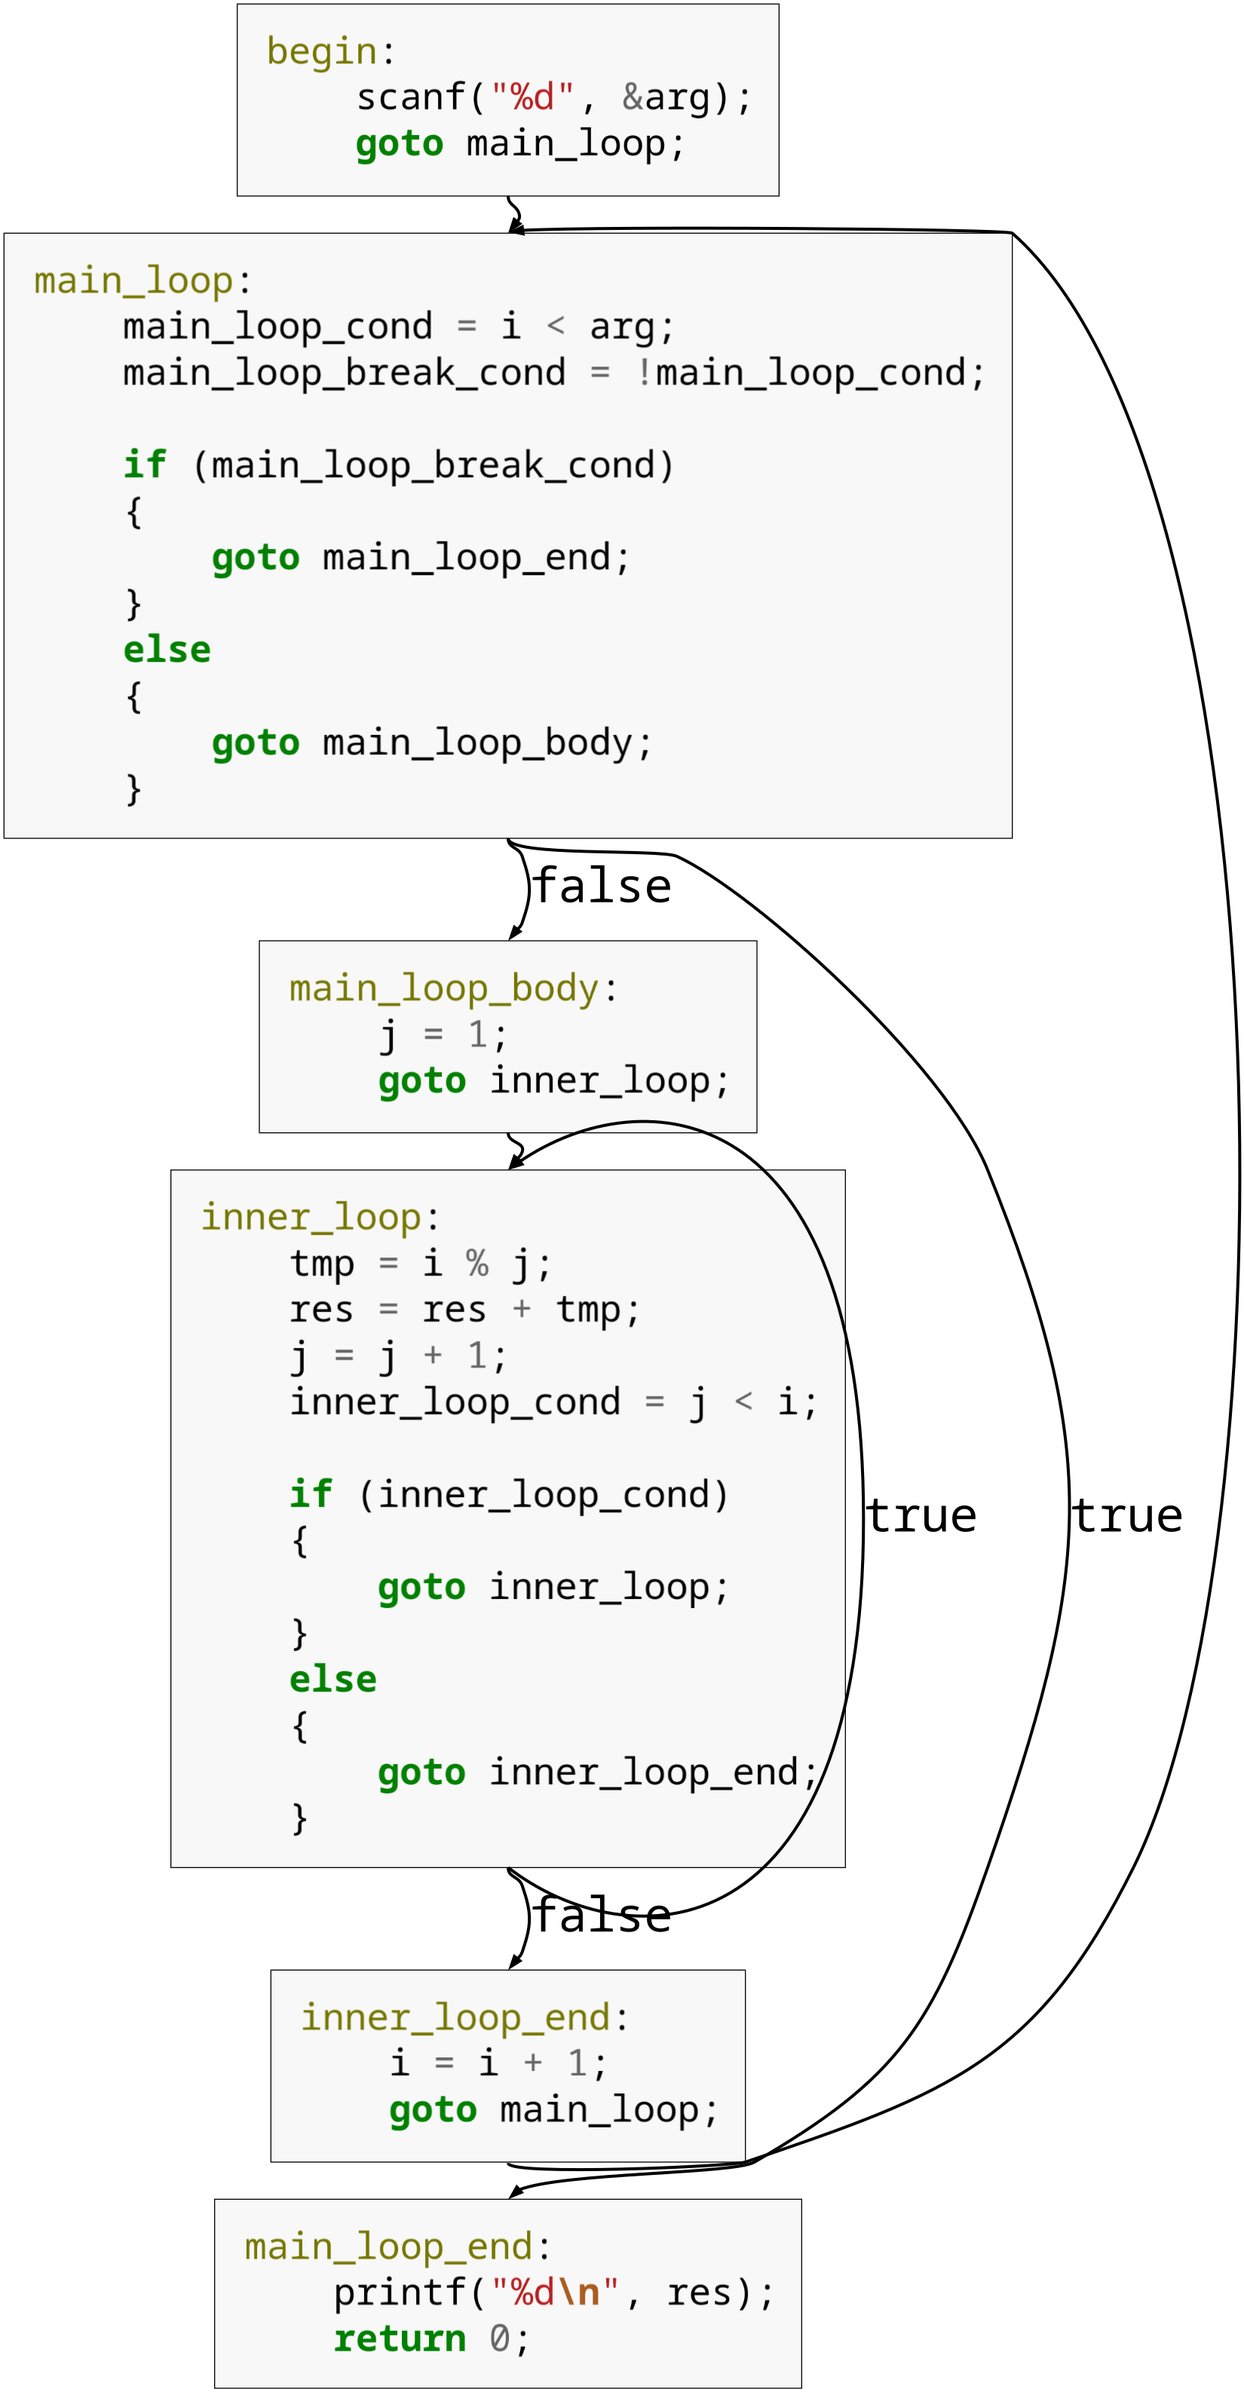
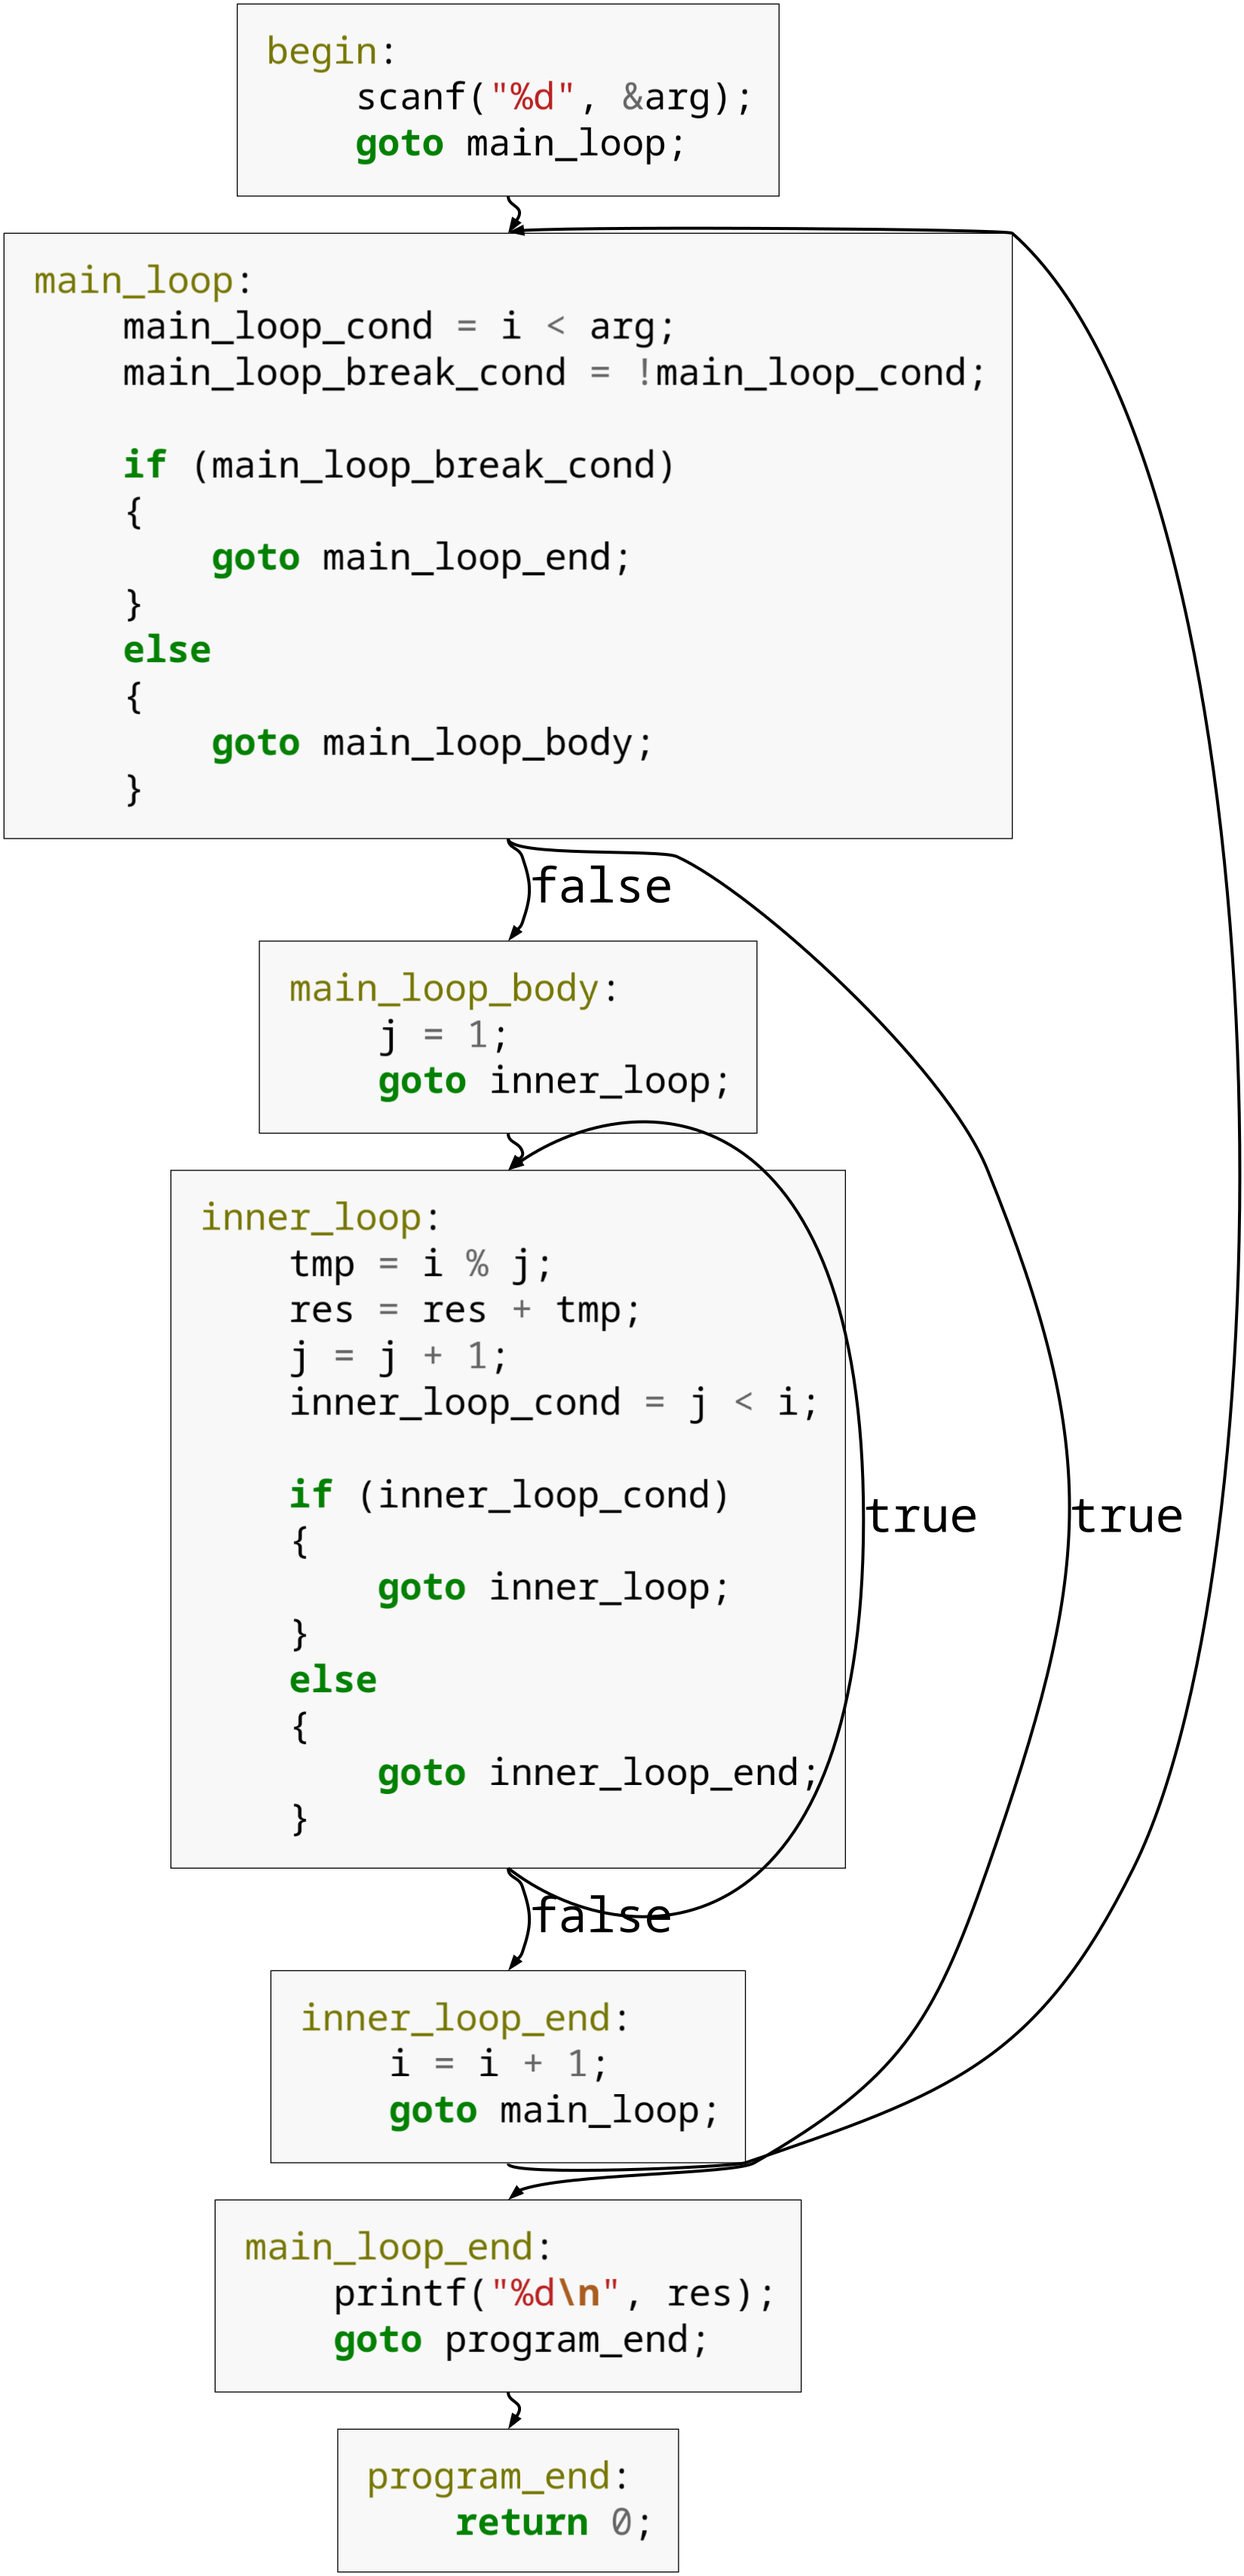
mistake fixed

diff --git a/file.html b/file.html
@@ -1,0 +1,174 @@
+<!DOCTYPE html PUBLIC "-//W3C//DTD HTML 4.01//EN"
+   "http://www.w3.org/TR/html4/strict.dtd">
+<!--
+generated by Pygments <https://pygments.org/>
+Copyright 2006-2024 by the Pygments team.
+Licensed under the BSD license, see LICENSE for details.
+-->
+<html>
+<head>
+  <title></title>
+  <meta http-equiv="content-type" content="text/html; charset=utf-8">
+  <style type="text/css">
+/*
+generated by Pygments <https://pygments.org/>
+Copyright 2006-2024 by the Pygments team.
+Licensed under the BSD license, see LICENSE for details.
+*/
+pre { line-height: 125%; }
+td.linenos .normal { color: inherit; background-color: transparent; padding-left: 5px; padding-right: 5px; }
+span.linenos { color: inherit; background-color: transparent; padding-left: 5px; padding-right: 5px; }
+td.linenos .special { color: #000000; background-color: #ffffc0; padding-left: 5px; padding-right: 5px; }
+span.linenos.special { color: #000000; background-color: #ffffc0; padding-left: 5px; padding-right: 5px; }
+body .hll { background-color: #ffffcc }
+body { background: #f8f8f8; }
+body .c { color: #3D7B7B; font-style: italic } /* Comment */
+body .err { border: 1px solid #FF0000 } /* Error */
+body .k { color: #008000; font-weight: bold } /* Keyword */
+body .o { color: #666666 } /* Operator */
+body .ch { color: #3D7B7B; font-style: italic } /* Comment.Hashbang */
+body .cm { color: #3D7B7B; font-style: italic } /* Comment.Multiline */
+body .cp { color: #9C6500 } /* Comment.Preproc */
+body .cpf { color: #3D7B7B; font-style: italic } /* Comment.PreprocFile */
+body .c1 { color: #3D7B7B; font-style: italic } /* Comment.Single */
+body .cs { color: #3D7B7B; font-style: italic } /* Comment.Special */
+body .gd { color: #A00000 } /* Generic.Deleted */
+body .ge { font-style: italic } /* Generic.Emph */
+body .ges { font-weight: bold; font-style: italic } /* Generic.EmphStrong */
+body .gr { color: #E40000 } /* Generic.Error */
+body .gh { color: #000080; font-weight: bold } /* Generic.Heading */
+body .gi { color: #008400 } /* Generic.Inserted */
+body .go { color: #717171 } /* Generic.Output */
+body .gp { color: #000080; font-weight: bold } /* Generic.Prompt */
+body .gs { font-weight: bold } /* Generic.Strong */
+body .gu { color: #800080; font-weight: bold } /* Generic.Subheading */
+body .gt { color: #0044DD } /* Generic.Traceback */
+body .kc { color: #008000; font-weight: bold } /* Keyword.Constant */
+body .kd { color: #008000; font-weight: bold } /* Keyword.Declaration */
+body .kn { color: #008000; font-weight: bold } /* Keyword.Namespace */
+body .kp { color: #008000 } /* Keyword.Pseudo */
+body .kr { color: #008000; font-weight: bold } /* Keyword.Reserved */
+body .kt { color: #B00040 } /* Keyword.Type */
+body .m { color: #666666 } /* Literal.Number */
+body .s { color: #BA2121 } /* Literal.String */
+body .na { color: #687822 } /* Name.Attribute */
+body .nb { color: #008000 } /* Name.Builtin */
+body .nc { color: #0000FF; font-weight: bold } /* Name.Class */
+body .no { color: #880000 } /* Name.Constant */
+body .nd { color: #AA22FF } /* Name.Decorator */
+body .ni { color: #717171; font-weight: bold } /* Name.Entity */
+body .ne { color: #CB3F38; font-weight: bold } /* Name.Exception */
+body .nf { color: #0000FF } /* Name.Function */
+body .nl { color: #767600 } /* Name.Label */
+body .nn { color: #0000FF; font-weight: bold } /* Name.Namespace */
+body .nt { color: #008000; font-weight: bold } /* Name.Tag */
+body .nv { color: #19177C } /* Name.Variable */
+body .ow { color: #AA22FF; font-weight: bold } /* Operator.Word */
+body .w { color: #bbbbbb } /* Text.Whitespace */
+body .mb { color: #666666 } /* Literal.Number.Bin */
+body .mf { color: #666666 } /* Literal.Number.Float */
+body .mh { color: #666666 } /* Literal.Number.Hex */
+body .mi { color: #666666 } /* Literal.Number.Integer */
+body .mo { color: #666666 } /* Literal.Number.Oct */
+body .sa { color: #BA2121 } /* Literal.String.Affix */
+body .sb { color: #BA2121 } /* Literal.String.Backtick */
+body .sc { color: #BA2121 } /* Literal.String.Char */
+body .dl { color: #BA2121 } /* Literal.String.Delimiter */
+body .sd { color: #BA2121; font-style: italic } /* Literal.String.Doc */
+body .s2 { color: #BA2121 } /* Literal.String.Double */
+body .se { color: #AA5D1F; font-weight: bold } /* Literal.String.Escape */
+body .sh { color: #BA2121 } /* Literal.String.Heredoc */
+body .si { color: #A45A77; font-weight: bold } /* Literal.String.Interpol */
+body .sx { color: #008000 } /* Literal.String.Other */
+body .sr { color: #A45A77 } /* Literal.String.Regex */
+body .s1 { color: #BA2121 } /* Literal.String.Single */
+body .ss { color: #19177C } /* Literal.String.Symbol */
+body .bp { color: #008000 } /* Name.Builtin.Pseudo */
+body .fm { color: #0000FF } /* Name.Function.Magic */
+body .vc { color: #19177C } /* Name.Variable.Class */
+body .vg { color: #19177C } /* Name.Variable.Global */
+body .vi { color: #19177C } /* Name.Variable.Instance */
+body .vm { color: #19177C } /* Name.Variable.Magic */
+body .il { color: #666666 } /* Literal.Number.Integer.Long */
+
+  </style>
+</head>
+<body>
+<h2></h2>
+
+<div class="highlight"><pre><span></span><span class="c1">// Variant 3</span>
+<span class="cp">#include</span><span class="w"> </span><span class="cpf">&lt;stdio.h&gt;</span>
+
+<span class="kt">int</span><span class="w"> </span><span class="nf">main</span><span class="p">()</span>
+<span class="p">{</span>
+<span class="w">    </span><span class="kt">int</span><span class="w"> </span><span class="n">arg</span><span class="w"> </span><span class="o">=</span><span class="w"> </span><span class="mi">0</span><span class="p">;</span>
+<span class="w">    </span><span class="kt">int</span><span class="w"> </span><span class="n">res</span><span class="w"> </span><span class="o">=</span><span class="w"> </span><span class="mi">0</span><span class="p">;</span>
+
+<span class="w">    </span><span class="kt">int</span><span class="w"> </span><span class="n">i</span><span class="w"> </span><span class="o">=</span><span class="w"> </span><span class="mi">0</span><span class="p">;</span>
+<span class="w">    </span><span class="kt">int</span><span class="w"> </span><span class="n">j</span><span class="w"> </span><span class="o">=</span><span class="w"> </span><span class="mi">0</span><span class="p">;</span>
+
+<span class="w">    </span><span class="kt">int</span><span class="w"> </span><span class="n">tmp</span><span class="w"> </span><span class="o">=</span><span class="w"> </span><span class="mi">0</span><span class="p">;</span>
+
+<span class="w">    </span><span class="kt">bool</span><span class="w"> </span><span class="n">main_loop_cond</span><span class="w"> </span><span class="o">=</span><span class="w"> </span><span class="nb">false</span><span class="p">;</span>
+<span class="w">    </span><span class="kt">bool</span><span class="w"> </span><span class="n">main_loop_break_cond</span><span class="w"> </span><span class="o">=</span><span class="w"> </span><span class="nb">false</span><span class="p">;</span>
+<span class="w">    </span><span class="kt">bool</span><span class="w"> </span><span class="n">inner_loop_cond</span><span class="w"> </span><span class="o">=</span><span class="w"> </span><span class="nb">false</span><span class="p">;</span>
+
+<span class="nl">begin</span><span class="p">:</span>
+<span class="w">    </span><span class="n">scanf</span><span class="p">(</span><span class="s">&quot;%d&quot;</span><span class="p">,</span><span class="w"> </span><span class="o">&amp;</span><span class="n">arg</span><span class="p">);</span>
+<span class="w">    </span><span class="k">goto</span><span class="w"> </span><span class="n">main_loop</span><span class="p">;</span>
+
+<span class="nl">main_loop</span><span class="p">:</span>
+<span class="w">    </span><span class="n">main_loop_cond</span><span class="w"> </span><span class="o">=</span><span class="w"> </span><span class="n">i</span><span class="w"> </span><span class="o">&lt;</span><span class="w"> </span><span class="n">arg</span><span class="p">;</span>
+<span class="w">    </span><span class="n">main_loop_break_cond</span><span class="w"> </span><span class="o">=</span><span class="w"> </span><span class="o">!</span><span class="n">main_loop_cond</span><span class="p">;</span>
+
+<span class="w">    </span><span class="k">if</span><span class="w"> </span><span class="p">(</span><span class="n">main_loop_break_cond</span><span class="p">)</span>
+<span class="w">    </span><span class="p">{</span>
+<span class="w">        </span><span class="k">goto</span><span class="w"> </span><span class="n">main_loop_end</span><span class="p">;</span>
+<span class="w">    </span><span class="p">}</span>
+<span class="w">    </span><span class="k">else</span>
+<span class="w">    </span><span class="p">{</span>
+<span class="w">        </span><span class="k">goto</span><span class="w"> </span><span class="n">main_loop_body</span><span class="p">;</span>
+<span class="w">    </span><span class="p">}</span>
+
+<span class="nl">main_loop_body</span><span class="p">:</span>
+<span class="w">    </span><span class="n">j</span><span class="w"> </span><span class="o">=</span><span class="w"> </span><span class="mi">1</span><span class="p">;</span>
+<span class="w">    </span><span class="k">goto</span><span class="w"> </span><span class="n">inner_loop</span><span class="p">;</span>
+
+<span class="nl">inner_loop</span><span class="p">:</span>
+<span class="w">    </span><span class="n">tmp</span><span class="w"> </span><span class="o">=</span><span class="w"> </span><span class="n">i</span><span class="w"> </span><span class="o">%</span><span class="w"> </span><span class="n">j</span><span class="p">;</span>
+<span class="w">    </span><span class="n">res</span><span class="w"> </span><span class="o">=</span><span class="w"> </span><span class="n">res</span><span class="w"> </span><span class="o">+</span><span class="w"> </span><span class="n">tmp</span><span class="p">;</span>
+<span class="w">    </span><span class="n">j</span><span class="w"> </span><span class="o">=</span><span class="w"> </span><span class="n">j</span><span class="w"> </span><span class="o">+</span><span class="w"> </span><span class="mi">1</span><span class="p">;</span>
+<span class="w">    </span><span class="n">inner_loop_cond</span><span class="w"> </span><span class="o">=</span><span class="w"> </span><span class="n">j</span><span class="w"> </span><span class="o">&lt;</span><span class="w"> </span><span class="n">i</span><span class="p">;</span>
+
+<span class="w">    </span><span class="k">if</span><span class="w"> </span><span class="p">(</span><span class="n">inner_loop_cond</span><span class="p">)</span>
+<span class="w">    </span><span class="p">{</span>
+<span class="w">        </span><span class="k">goto</span><span class="w"> </span><span class="n">inner_loop</span><span class="p">;</span>
+<span class="w">    </span><span class="p">}</span>
+<span class="w">    </span><span class="k">else</span>
+<span class="w">    </span><span class="p">{</span>
+<span class="w">        </span><span class="k">goto</span><span class="w"> </span><span class="n">inner_loop_end</span><span class="p">;</span>
+<span class="w">    </span><span class="p">}</span>
+
+<span class="nl">inner_loop_end</span><span class="p">:</span>
+<span class="w">    </span><span class="n">i</span><span class="w"> </span><span class="o">=</span><span class="w"> </span><span class="n">i</span><span class="w"> </span><span class="o">+</span><span class="w"> </span><span class="mi">1</span><span class="p">;</span>
+<span class="w">    </span><span class="k">goto</span><span class="w"> </span><span class="n">main_loop</span><span class="p">;</span>
+
+
+
+
+<span class="w">                </span><span class="nl">main_loop_end</span><span class="p">:</span>
+<span class="w">                    </span><span class="n">printf</span><span class="p">(</span><span class="s">&quot;%d</span><span class="se">\n</span><span class="s">&quot;</span><span class="p">,</span><span class="w"> </span><span class="n">res</span><span class="p">);</span>
+<span class="w">                    </span><span class="k">goto</span><span class="w"> </span><span class="n">program_end</span><span class="p">;</span>
+
+
+
+
+<span class="w">                </span><span class="nl">program_end</span><span class="p">:</span>
+<span class="w">                    </span><span class="k">return</span><span class="w"> </span><span class="mi">0</span><span class="p">;</span>
+
+
+
+<span class="p">}</span>
+</pre></div>
+</body>
+</html>

diff --git a/solution_1.cpp b/solution_1.cpp
@@ -55,7 +55,19 @@ inner_loop_end:
     i = i + 1;
     goto main_loop;
 
-main_loop_end:
-    printf("%d\n", res);
-    return 0;
+
+
+
+                main_loop_end:
+                    printf("%d\n", res);
+                    goto program_end;
+
+
+
+
+                program_end:
+                    return 0;
+
+
+
 }
